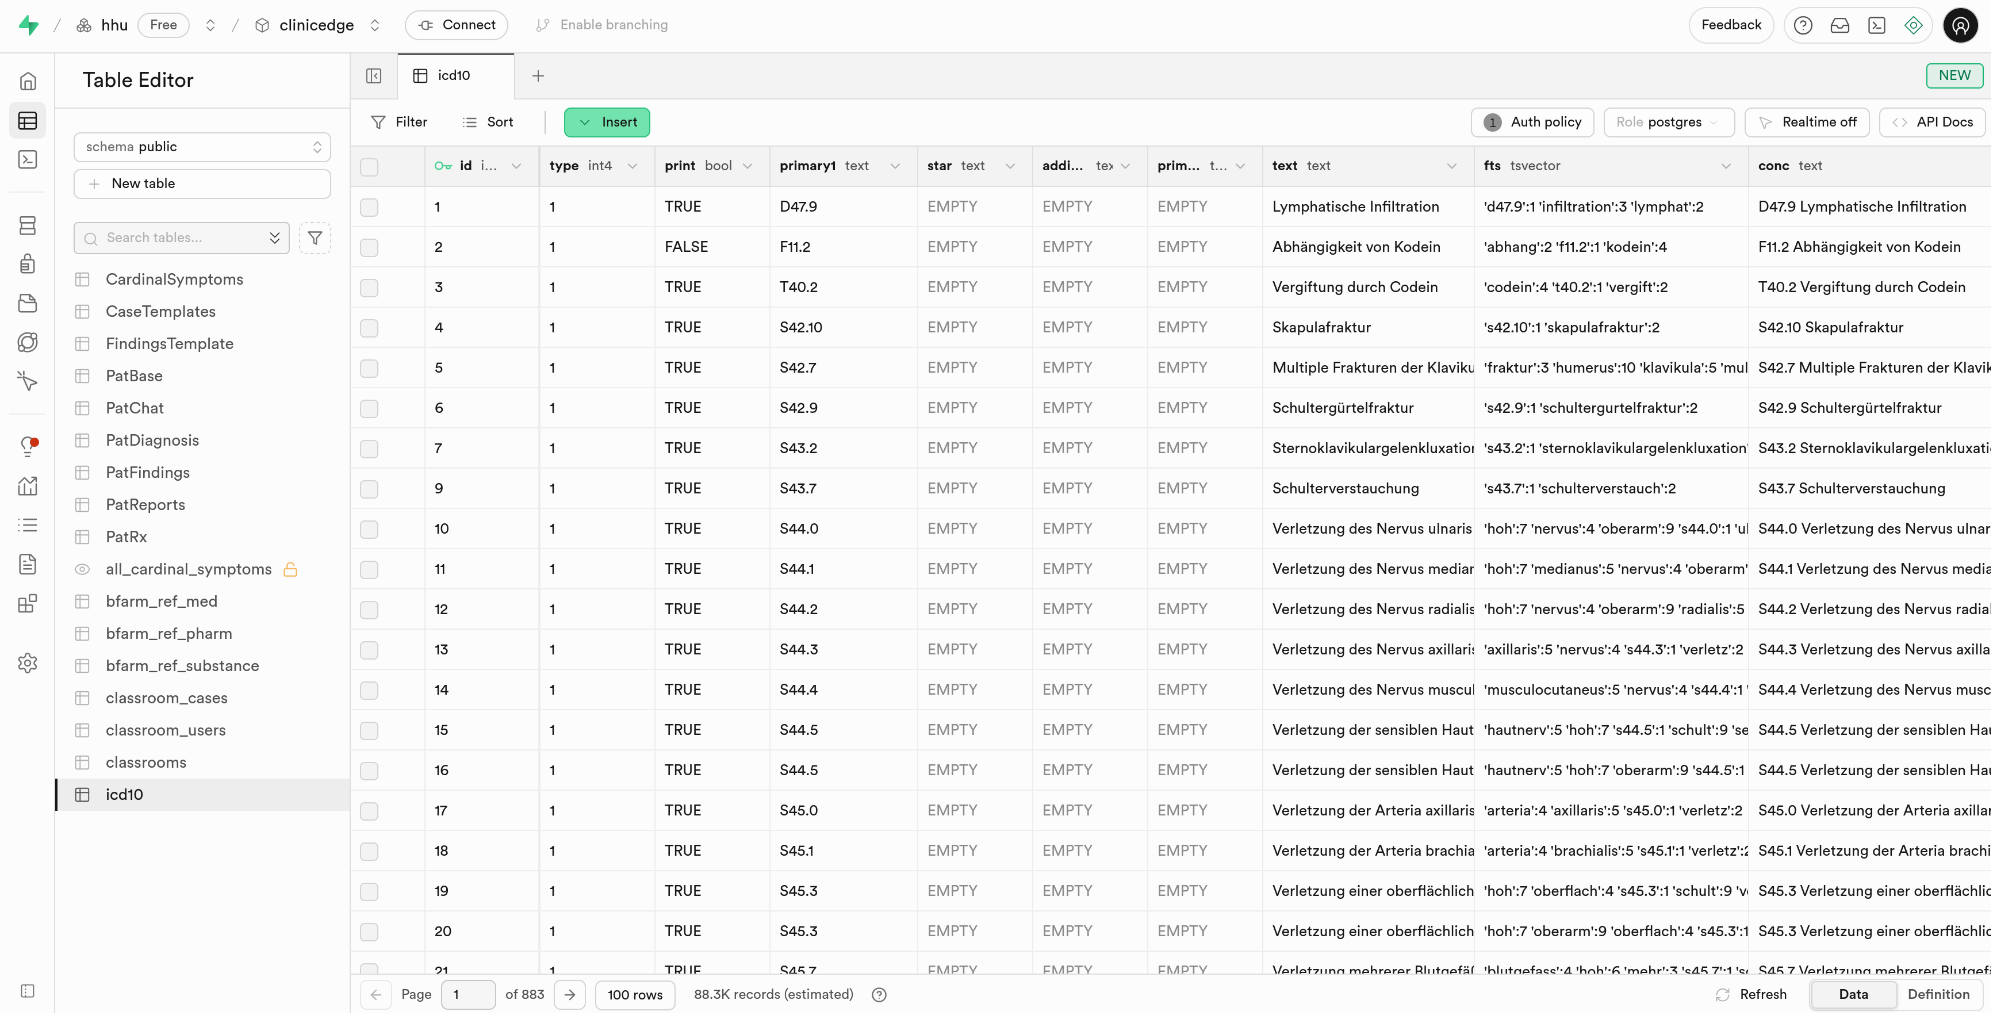
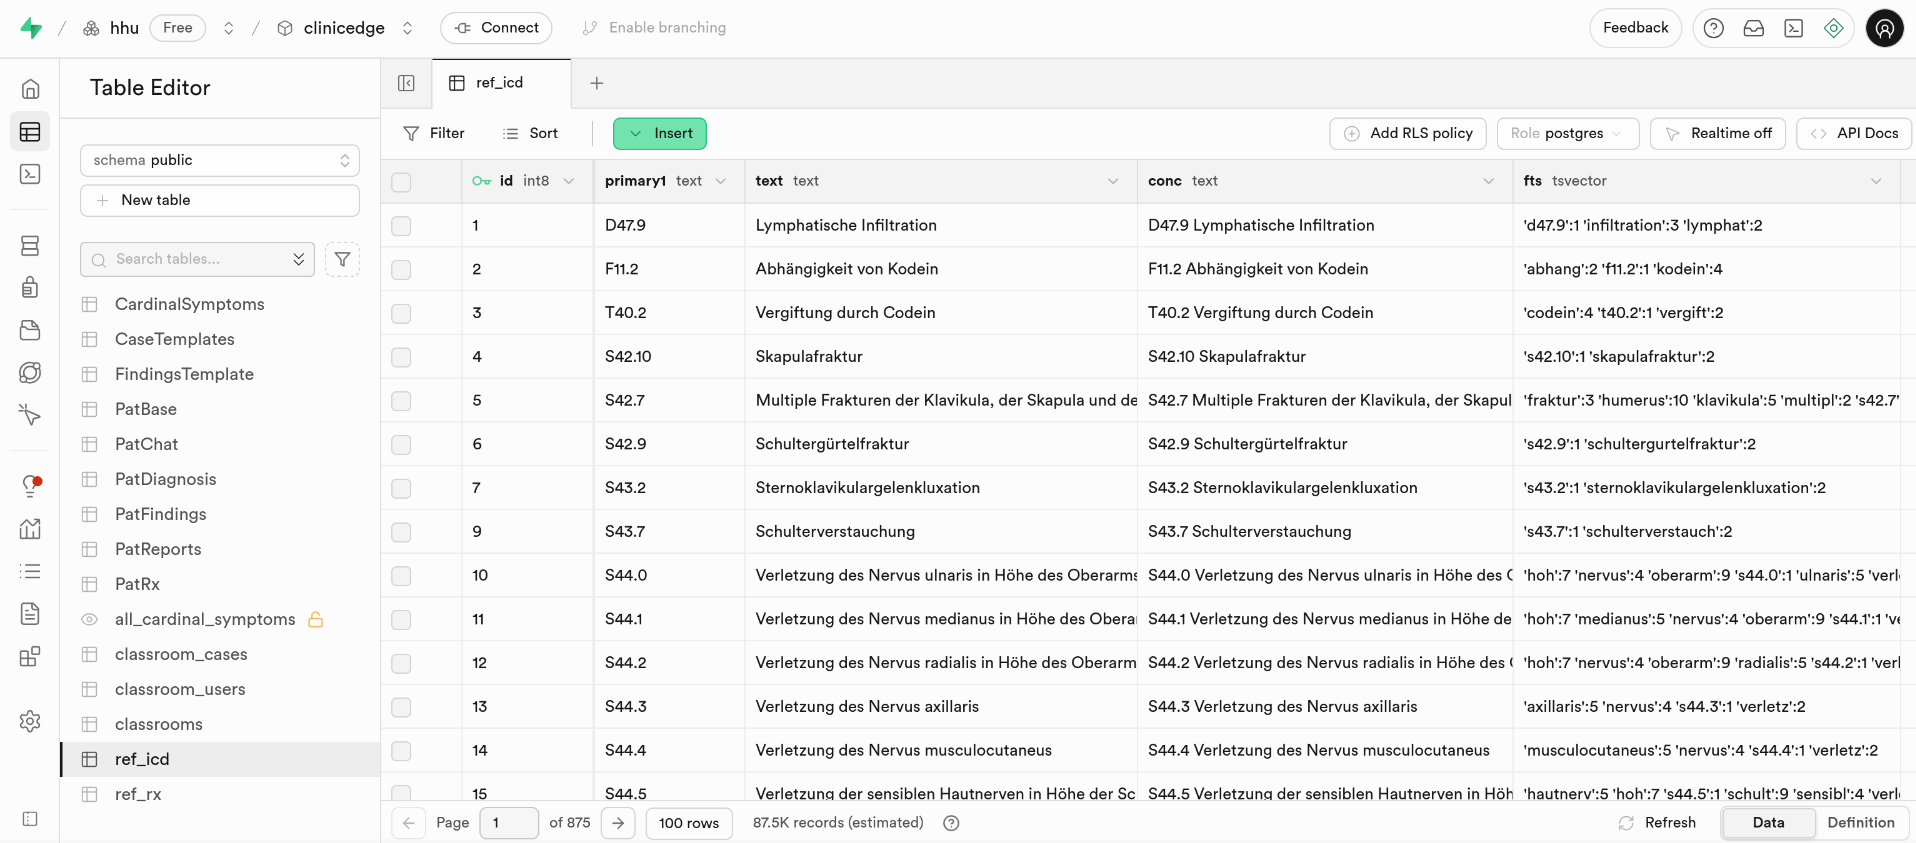
Integrate database changes

diff --git a/docs/Database_Structure/3_2_9_pat_rx.md b/docs/Database_Structure/3_2_9_pat_rx.md
@@ -1,8 +1,8 @@
 # 3.2.9 `PatRx` 
 
-The `PatRx` table in Supabase stores all prescriptions for each patient case. Each medication is linked to a patient via `pat_id` and receives a unique `rx_id`. The table supports storage of up to three medications, with metadata including the medication name, Pharmazentralnummer (PZN), and an internal `rx_key`. 
+The `PatRx` table in Supabase stores all prescriptions for each patient case. Each medication is linked to a patient via `pat_id` and receives a unique `rx_id`. The table supports storage of up to three medications, with metadata including the medication name, Pharmazentralnummer (PZN), the medication regimen and an internal `rx_key`. 
 
-![](./Images/3_2_9_pat_rx_ce.jpg)
+![](./Images/3_2_9_pat_rx_ce.png)
 
 ## Table Structure
 
@@ -10,9 +10,9 @@ The `PatRx` table in Supabase stores all prescriptions for each patient case. Ea
 |-------------|--------|--------|-----------------------------------------------------------------------------|
 | `pat_id`    | bigint | number | Internal ID of the patient receiving the prescription (as in `PatBase`)     |
 | `rx_id`     | bigint | number | Unique prescription ID                                                      |
-| `data-0`    | jsonb  | json   | Metadata for medication 1 (e.g., `pzn`, `name`, `rx_key`)                   |
-| `data-1`    | jsonb  | json   | Metadata for medication 2 (e.g., `pzn`, `name`, `rx_key`)                   |
-| `data-2`    | jsonb  | json   | Metadata for medication 3 (e.g., `pzn`, `name`, `rx_key`)                   |
+| `data-0`    | jsonb  | json   | Metadata for medication 1 (e.g., `ppn`, `name`, `regime`, `rx_key`)         |
+| `data-1`    | jsonb  | json   | Metadata for medication 2 (e.g., `ppn`, `name`, `regime`, `rx_key`)         |
+| `data-2`    | jsonb  | json   | Metadata for medication 3 (e.g., `ppn`, `name`, `regime`, `rx_key`)         |
 | `rx_key-0`  | text   | string | Internal medication key for medication 1                                    |
 | `rx_key-1`  | text   | string | Internal medication key for medication 2                                    |
 | `rx_key-2`  | text   | string | Internal medication key for medication 3                                    |
@@ -22,24 +22,25 @@ The `PatRx` table in Supabase stores all prescriptions for each patient case. Ea
 Example medication metadata:
 ```json
 {
-  "pzn": "6718342",
+  "ppn": "{"17976544,
   "name": "Paracetamol 500 mg (Tabl)",
+  "regime": "1-0-0",
   "rx_key": "6718342"
 }
 ```
 
 ## Integration within the System
 
-Medications are added to the `PatRx` table using the `addRx` function in `logic_server.js`. Medication metadata includes `pzn` and `rx_key`, which are matched to `RMP_PZN` and `RMP_KEY` in the `bfarm_ref_med` table in Supabase. Each prescription is linked to the correct patient case via `pat_id`.
+Medications are added to the `PatRx` table using the `addRx` function in `logic_server.js`. Medication metadata includes `ppn` and `rx_key`, which are matched to `ppn` and `id` in the `ref_rx` table in Supabase. Each prescription is linked to the correct patient case via `pat_id`.
 
-``` mermaid
+```mermaid
 flowchart TD
     U["User prescribes medication"]:::UI -- executes --> A["addRx function"]:::logic
     A -- adds medication to ---> B["PatRx Table"]:::supabase
     B --> F["medication 1/2/3"]:::supabase
     B --> D["pat_id"]:::supabase
     F["medication 1/2/3"] -- is linked to --> D["pat_id"]:::supabase
-    F -- refers to --> C["bfarm_ref_med Table"]:::supabase
+    F -- refers to --> C["ref_rx Table"]:::supabase
     D -- refers to --> E["PatBase Table"]:::supabase
 
 classDef supabase fill:#40cc8c,stroke:#000000,stroke-width:1px;

diff --git a/docs/Database_Structure/3_2_11_ref_icd.md b/docs/Database_Structure/3_2_11_ref_icd.md
@@ -1,24 +1,18 @@
-# 3.2.11 `icd10` 
+# 3.2.11 `ref_icd` 
 
-The `icd10` table in supabase stores the ICD-10 diagnosis codes and is referenced when a user assigns a diagnosis to a patient case.
+The `ref_icd` table in supabase stores the ICD-10 diagnosis codes and is referenced when a user assigns a diagnosis to a patient case.
 
 ## Table Structure
 
 | Column        | Format  | Type   | Description                                                               |
 |---------------|---------|--------|---------------------------------------------------------------------------|
-| `id`          | bigint  | number | Internal ID of each ICD-10 diagnosis code                               |
-| `type`        | bigint  | number |                                         |
-| `print`       | bool    | boolean|           |
-| `primary1`    | text    | string | ICD-10 diagnosis code           |
-| `star`        | text    | string |           |
-| `additional`  | text    | string |           |
-| `primary2`    | text    | string |           |
-| `text`        | text    | string | Description of the diagnosis          |
-| `fts`         | tsvector| tsvector| Contains data to optimize text search         |
+| `id`          | bigint  | number | Internal ID of each ICD-10 diagnosis code                                 |
+| `primary1`    | text    | string | ICD-10 diagnosis code                                                     |
+| `text`        | text    | string | Description of the diagnosis                                              |
 | `conc`        | text    | string | `primary1` (ICD-10 code) concatenated with `text` (description of the diagnosis) |
+| `fts`         | tsvector| tsvector| Contains data to optimize text search                                    |
 
 ![](./Images/3_2_11_icd10_supabase.png)
-
 
 
 ## Integration within the System
@@ -26,7 +20,7 @@ The `icd10` table in supabase stores the ICD-10 diagnosis codes and is reference
 ```mermaid
 flowchart TD
     U["User assigns diagnosis"]:::UI -- executes function --> A["addDiagnosis"]:::logic
-    C[idc10 Table]:::supabase -- ICD-10 codes are retrieved --> A  
+    C[ref_icd Table]:::supabase -- ICD-10 codes are retrieved --> A  
     A -- stores diagnosis in --> B["PatDiagnosis Table"]:::supabase
     B <-- are connected via pat_id --> E["PatBase Table"]:::supabase
 

diff --git a/docs/Database_Structure/3_2_10_ref_rx.md b/docs/Database_Structure/3_2_10_ref_rx.md
@@ -1,0 +1,33 @@
+# 3.2.10 `ref_rx`
+
+The `ref_rx` table in supabase stores the BfArM reference data for pharmacy products and is referenced when patients are prescribed medications.
+
+## Table Structure
+
+| Column            | Format  | Type   | Description                                                               |
+|-------------------|---------|--------|---------------------------------------------------------------------------|
+| `id`              | bigint  | number | Unique identifier for each substance and is equal to the PPN              |
+| `ppn`             | bigint  | number | Pharmacy Product Number (PPN) of each substance                           |
+| `count_substances`| bigint  | number |                                              |
+| `name_strength`   | text    | string | Name and strength of the medication  |
+| `adm_short`       | text    | string | Abbreviation of the dosage form                                   |
+| `adm_long`        | text    | string | Dosage form (e.g., tablet)                                   |
+| `adm_detail`      | text    | string | Specification of the dosage form (e.g., film-coated tablet)                                   |
+
+![](./Images/3_2_10_ref_rx_supabase.png)
+
+
+## Integration within the System
+
+```mermaid
+flowchart TD
+    U["User prescribes medication"]:::UI -- executes function --> A["addRx"]:::logic
+    C[ref_rx Table]:::supabase -- BfArM reference data is retrieved --> A  
+    A -- stores prescription in --> B["PatRx Table"]:::supabase
+    B <-- are connected via pat_id --> E["PatBase Table"]:::supabase
+
+classDef UI fill:#30acac,stroke:#000000,stroke-width:1px;
+classDef logic fill:#cc4078,stroke:#000000,stroke-width:1px;
+classDef supabase fill:#40cc8c,stroke:#000000,stroke-width:1px;
+classDef reference fill:#8240cc,stroke:#000000,stroke-width:1px;
+```

diff --git a/docs/Database_Structure/3_1_introduction_to_supabase.md b/docs/Database_Structure/3_1_introduction_to_supabase.md
@@ -14,11 +14,14 @@ A brief overview of the tables is provided below, while more detailed descriptio
 | `PatDiagnosis`          | Contains diagnoses assigned to each patient                                  |
 | `PatFindings`           | Stores the findings requested for each patient case                          |
 | `PatReports`            | Stores rendered reports generated for each patient                           |
-| `PatRx`                 |                                                                              |
+| `PatRx`                 | Contains prescriptions assigned to patients                                  |
 | `all_cardinal_symptoms` |                                                                              |
-| `bfarm_ref_med`         | BfArM reference data for ...                                                 |
-| `bfarm_ref_pharm`       | BfArM reference data for ...                                                 |
-| `bfarm_ref_substance`   | BfArM reference data for ...                                                 |
-| `icd10`                 | ICD-10 diagnosis code reference table                                        |
+| `classroom_cases`       | Stores cases (via `case_id`) assigned to classrooms                          |
+| `classroom_users`       | Stores user IDs assigned to classrooms                                       |
+| `classrooms`            | Contains created classrooms                                                  |
+| `ref_icd`               | ICD-10 diagnosis code reference table                                        |
+| `ref_rx`                | BfArM reference data                                                         |
+
+
 
 

diff --git a/docs/Database_Structure/3_2_6_pat_diagnosis.md b/docs/Database_Structure/3_2_6_pat_diagnosis.md
@@ -8,15 +8,16 @@ The `PatDiagnosis` table in Supabase stores the ICD-10 diagnoses assigned to a p
 |----------------|------------|------------|----------------------------------------------------------------------|
 | `id`           | bigint     | number     | Unique identifier for this diagnosis entry                           |
 | `pat_id`       | bigint     | number     | Corresponding patient case (as in `PatBase`)                         |
-| `diagnosis_id` | bigint     | number     | ICD-10 diagnosis code                                                |
+| `diagnosis_id` | bigint     | number     | Refers to the ICD-10 diagnosis code in the `ref_icd` table            |
 
 ![](./Images/3_2_6_pat_diagnosis_supabase.jpg)
 
 ## Integration within the System
-
+ 
 ```mermaid
 flowchart TD
     U["User assigns diagnosis"]:::UI -- executes function --> A["addDiagnosis"]:::logic
+    C[ref_icd Table]:::supabase -- ICD-10 codes are retrieved --> A  
     A -- stores diagnosis in --> B["PatDiagnosis Table"]:::supabase
     B <-- are connected via pat_id --> E["PatBase Table"]:::supabase
 
@@ -24,4 +25,4 @@ classDef UI fill:#30acac,stroke:#000000,stroke-width:1px;
 classDef logic fill:#cc4078,stroke:#000000,stroke-width:1px;
 classDef supabase fill:#40cc8c,stroke:#000000,stroke-width:1px;
 classDef reference fill:#8240cc,stroke:#000000,stroke-width:1px;
-``` 
+```

diff --git a/docs/Database_Structure/3_2_3_findings_template.md b/docs/Database_Structure/3_2_3_findings_template.md
@@ -8,7 +8,7 @@ Each available diagnostic request (`request_type`) is represented by one row. Ea
 
 | Column          | Format | Type   | Description                                                                          |
 |-----------------|--------|--------|--------------------------------------------------------------------------------------|
-| `id`            | bigint | number | ?                                                                                    |
+| `id`            | bigint | number | Unique ID of each template                                                           |
 | `request_group` | text   | string | Diagnostic group (e.g., `imaging`, `physical`, `microbiology`)                       |
 | `request_item`  | text   | string | Diagnostic modality or item type (e.g., `us`, `mri`)                                 |
 | `request_type`  | text   | string | Specific examination subtype (e.g., `us_tv`, `mri_abdomen`)                          |
@@ -19,7 +19,7 @@ Each available diagnostic request (`request_type`) is represented by one row. Ea
 
 ![](./Images/3_2_3_findings_template_supabase.jpg)
 
-``` mermaid
+```mermaid
 flowchart TD
     A[Request Group: imaging]:::group --> B[Request Item: us]
     A --> C[mri]

diff --git a/docs/2_1_getting_started.md b/docs/2_1_getting_started.md
@@ -3,11 +3,11 @@ sidebar_position: 3
 ---
 # 2.1 Getting Started
 
-Clinic Edge is a [Next.js](https://nextjs.org/) project, bootstrapped with [`create-next-app`](https://github.com/vercel/next.js/tree/canary/packages/create-next-app). The backend is powered by **Supabase**. For a detailed explanation of the file and folder structure, see [**Section 3. Get to Know: System Components**].
+Clinic Edge is a [Next.js](https://nextjs.org/) project, bootstrapped with [`create-next-app`](https://github.com/vercel/next.js/tree/canary/packages/create-next-app). The backend is powered by **Supabase**. For a detailed explanation of the file and folder structure, see [**Section 3. Get to Know: System Components**](Database_Structure/3_1_introduction_to_supabase.md).
 
 To run the project locally, follow these steps:
 
-## 1. Run the development server
+## 1. Run the Development Server
 
 ```bash
 npm run dev
